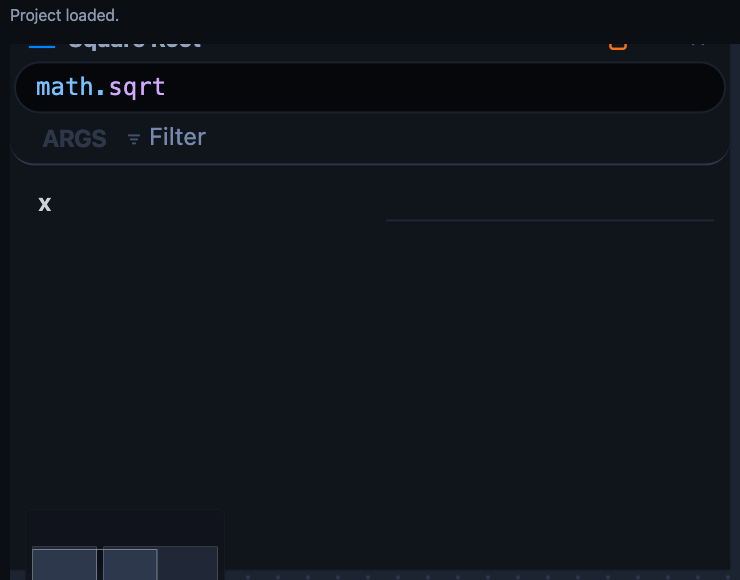
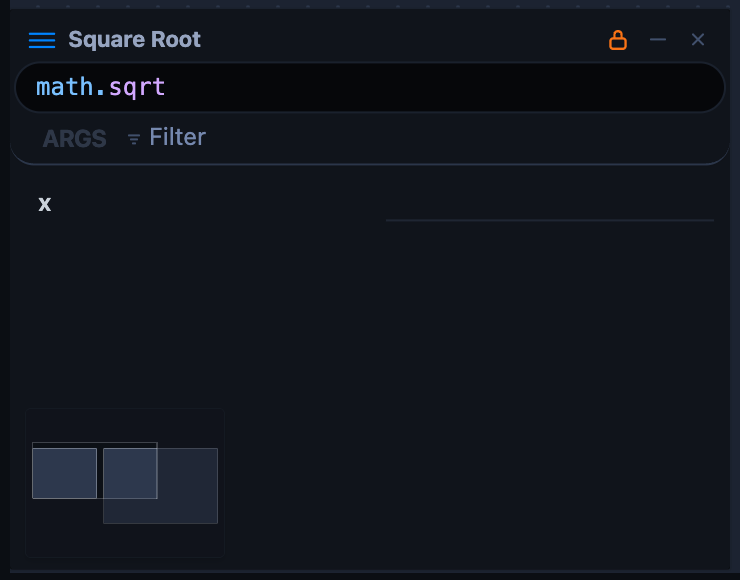
docs(python-canvas): capture the complete enlarged card
Rerun all fourteen presentation captures from e4108da66, where the
enlarged card sits wholly inside the canvas and no crop is clamped, and
replace the bundle README's clamping claim with the full-card invariant.

diff --git a/docs/plans/python-canvas-callable-section-presentation-plan.md b/docs/plans/python-canvas-callable-section-presentation-plan.md
@@ -1739,12 +1739,41 @@ fails the walkthrough with _The zoomed Square Root card reaches outside the work
 CSS px at its top, so the complete card is not on screen to capture_ — the exact clipping the
 supervisor rejected the images for.
 
-What remains in this phase: the recapture rendered from this batch's immutable source candidate and
-committed separately as decision 15 requires, replacing the rejected bundle and its clamping claim;
-the fresh read-only review; the supervisor's inspection of the replacement fourteen images at full
-resolution; developer visual acceptance with its accepted-candidate record; and this phase's closing
-`test --changed --base <trusted-base>` and `test-levels --base <trusted-base>` steps against the
-accepted candidate.
+**Unclipped enlarged capture record.** All fourteen captures are rerun and committed at
+`docs/evidence/python-canvas-callable-presentation`, rendered from the immutable source candidate
+`e4108da66b80b98ac21d17fcfaca32fa7f8a83e6` and committed separately from it, as decision 15 requires.
+The bundle's design is unchanged — the complete Square Root card idle and focused, the Generated
+Python reader idle and clicked, and the settled 2x-zoomed card idle, focused, and with its completion
+popup open, in both appearances, with eight CSS px of surrounding surface — and the harness again
+asserted every donor value while recording.
+
+The six enlarged images are the ones the supervisor rejected, and they now hold the complete card.
+The doubled card measures 724 by 564 CSS px at `x: 18`, `y: 166.8` inside a canvas of 1400 by 630 at
+`x: 20`, `y: 102.4`, so the header is inside the canvas rather than under the application's status
+strip, and each enlarged crop is 740 by 580 at `x: 10`, `y: 158.8` — wholly inside the 1440x900
+viewport, with nothing clamped. Every enlarged image shows the section header, the full
+syntax-highlighted `math.sqrt` pill, the Args row, and the complete `x` row; the two completion
+images additionally show the whole two-option popup, 500 CSS px wide and reaching 60.4 CSS px past
+the field's own bottom edge, inside neither the field nor the section. The settled card reports
+`will-change: auto`, `transform: none`, `backface-visibility: visible`, and `isolation: auto` in
+every enlarged state. The canvas's own minimap floats over the enlarged card's empty lower-left area;
+that is ordinary workspace chrome above the scene rather than part of this surface, and the README
+says so.
+
+The four Generated Python images and the two dark 1x card images are byte-identical to the rejected
+bundle's. The two light 1x card images differ only within the sub-perceptual header-glyph
+rasterization variance this plan already bounded: 28 pixels at a maximum one-channel delta of 6 in
+the idle crop and 46 pixels at a delta of 1 in the focused one, all inside the header's own glyph
+rows. Every recorded 1x rectangle is unchanged, so the light idle card still measures both donor
+steps at zero — the header's bottom and the field's top at 233.39 CSS px, the field's bottom and the
+Args toolbar's top at 259.39 — with the item list's own 8.5 CSS px to the first parameter row and
+`0px` padding on the app's content root and the package's content slot. This is unaccepted working
+evidence, not a regression lock.
+
+What remains in this phase: the fresh read-only review; the supervisor's inspection of the
+replacement fourteen images at full resolution; developer visual acceptance with its
+accepted-candidate record; and this phase's closing `test --changed --base <trusted-base>` and
+`test-levels --base <trusted-base>` steps against the accepted candidate.
 
 ## Stop conditions
 

diff --git a/docs/evidence/python-canvas-callable-presentation/README.md b/docs/evidence/python-canvas-callable-presentation/README.md
@@ -27,8 +27,12 @@ product's own gesture:
 
 Each image is a component crop with eight CSS px of surrounding surface, not a full-app screenshot,
 and each carries its own clip rectangle, SHA-256, computed geometry, and computed typography or
-paint in the metrics file beside the donor values it was asserted against. The zoomed crops are
-clamped to the viewport, because a card the gesture has doubled no longer fits inside it.
+paint in the metrics file beside the donor values it was asserted against. Every crop holds its whole
+subject: the harness never clamps a crop to the viewport, and it fails rather than record a partial
+image of something that does not fit. An earlier bundle's enlarged cards were clamped that way, so
+their headers were missing; the gesture is now anchored on the callable field, which keeps the
+doubled card inside the canvas, and each appearance's enlarged sequence starts from a fresh page
+load of the shipped `math.sqrt` scene.
 
 ## What the images have to show
 
@@ -60,8 +64,12 @@ enlarged zoom they were found at. The scene is exactly doubled and settled, with
 on the card, and the card carries no compositor layer of its own — `will-change: auto`,
 `transform: none`, `backface-visibility: visible`, `isolation: auto` — so its text, icons, and
 borders are rasterized at the size they are displayed at rather than scaled from the layer a gesture
-left behind. Judge them for crispness against the same scene in main. In the completion crop the
-popup is the whole list, parented to the canvas rather than to the section: it reaches roughly 60
+left behind. Judge them for crispness against the same scene in main. Each of the six enlarged images
+holds the complete card: the section header, the full syntax-highlighted `math.sqrt` pill, the Args
+row, and the whole `x` parameter row. The doubled card measures 724 by 564 CSS px inside a canvas of
+1400 by 630, and the canvas's own minimap overlays the card's empty lower-left area — that is
+ordinary workspace chrome floating above the scene, not part of this surface. In the completion crop
+the popup is the whole list, parented to the canvas rather than to the section: it reaches roughly 60
 CSS px past the field's own bottom edge, is not inside the field or the section, and is what the
 page hit-tests at both of the points recorded in the metrics. The single horizontal line that used
 to cross the focused pill was all that survived of that popup when the section clipped it.
